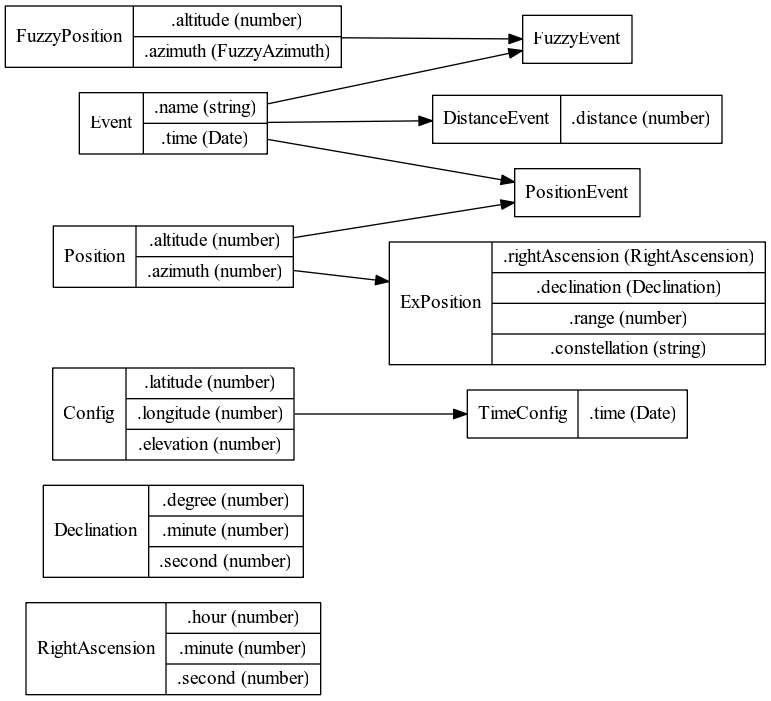
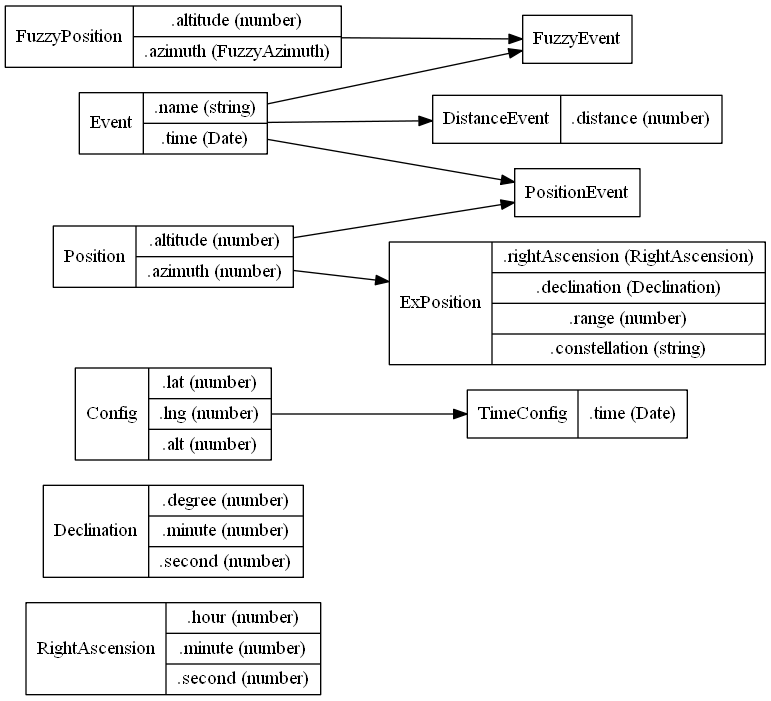
docs: update docs for new shortened config

diff --git a/docs/core.md b/docs/core.md
@@ -16,48 +16,48 @@ Create a HeavensAbove instance with an optional default config.
 new HeavensAbove();
 
 new HeavensAbove({
-    latitude: 40,
-    longtitude: 116,
-    elevation: 50
+    lat: 40,
+    lng: 116,
+    alt: 50
 });
 ```
 
-#### .setConfig(config)
+#### .config
 
 Set default config.
 
-- `config`: [`<Config>`<sub>(partial)</sub>](./interface#config) New default config.
+- [`<Config>`](./interface#config) Default config.
 
 ```typescript
-ha.setConfig({
+ha.config = {
     latitude: 40,
     longtitude: 116,
     elevation: 50
-});
+};
 ```
 
-#### .latitude
+#### .lat
 
 - [`<number>`][number] Latitude of the default observation location (degree). **Default:** `0`
 
 ```typescript
-ha.latitude = 40;
+ha.lat = 40;
 ```
 
-#### .longtitude
+#### .lng
 
 - [`<number>`][number] Longtitude of the default observation location (degree). **Default:** `0`
 
 ```typescript
-ha.longtitude = 116;
+ha.lng = 116;
 ```
 
-#### .elevation
+#### .alt
 
 - [`<number>`][number] Elevation of the default observation location (meter). **Default:** `0`
 
 ```typescript
-ha.elevation = 50;
+ha.alt = 50;
 ```
 
 #### .getImageStream(url)

diff --git a/docs/interface.md b/docs/interface.md
@@ -30,17 +30,17 @@ Describes declination.
 
 Base config including observation location params.
 
-- `latitude`: [`<number>`][number] Latitude of the observation location (degree). **Default:** `0`
+- `lat`: [`<number>`][number] Latitude of the observation location (degree). **Default:** `0`
 
-- `longtitude`: [`<number>`][number] Longitude of the observation location (degree). **Default:** `0`
+- `lng`: [`<number>`][number] Longitude of the observation location (degree). **Default:** `0`
 
-- `elevation`: [`<number>`][number] Elevation of the observation location (meter). **Default:** `0`
+- `alt`: [`<number>`][number] Elevation of the observation location (meter). **Default:** `0`
 
 ```typescript
 {
-    latitude: 40,
-    longtitude: 116,
-    elevation: 50
+    lat: 40,
+    lng: 116,
+    alt: 50
 }
 ```
 
